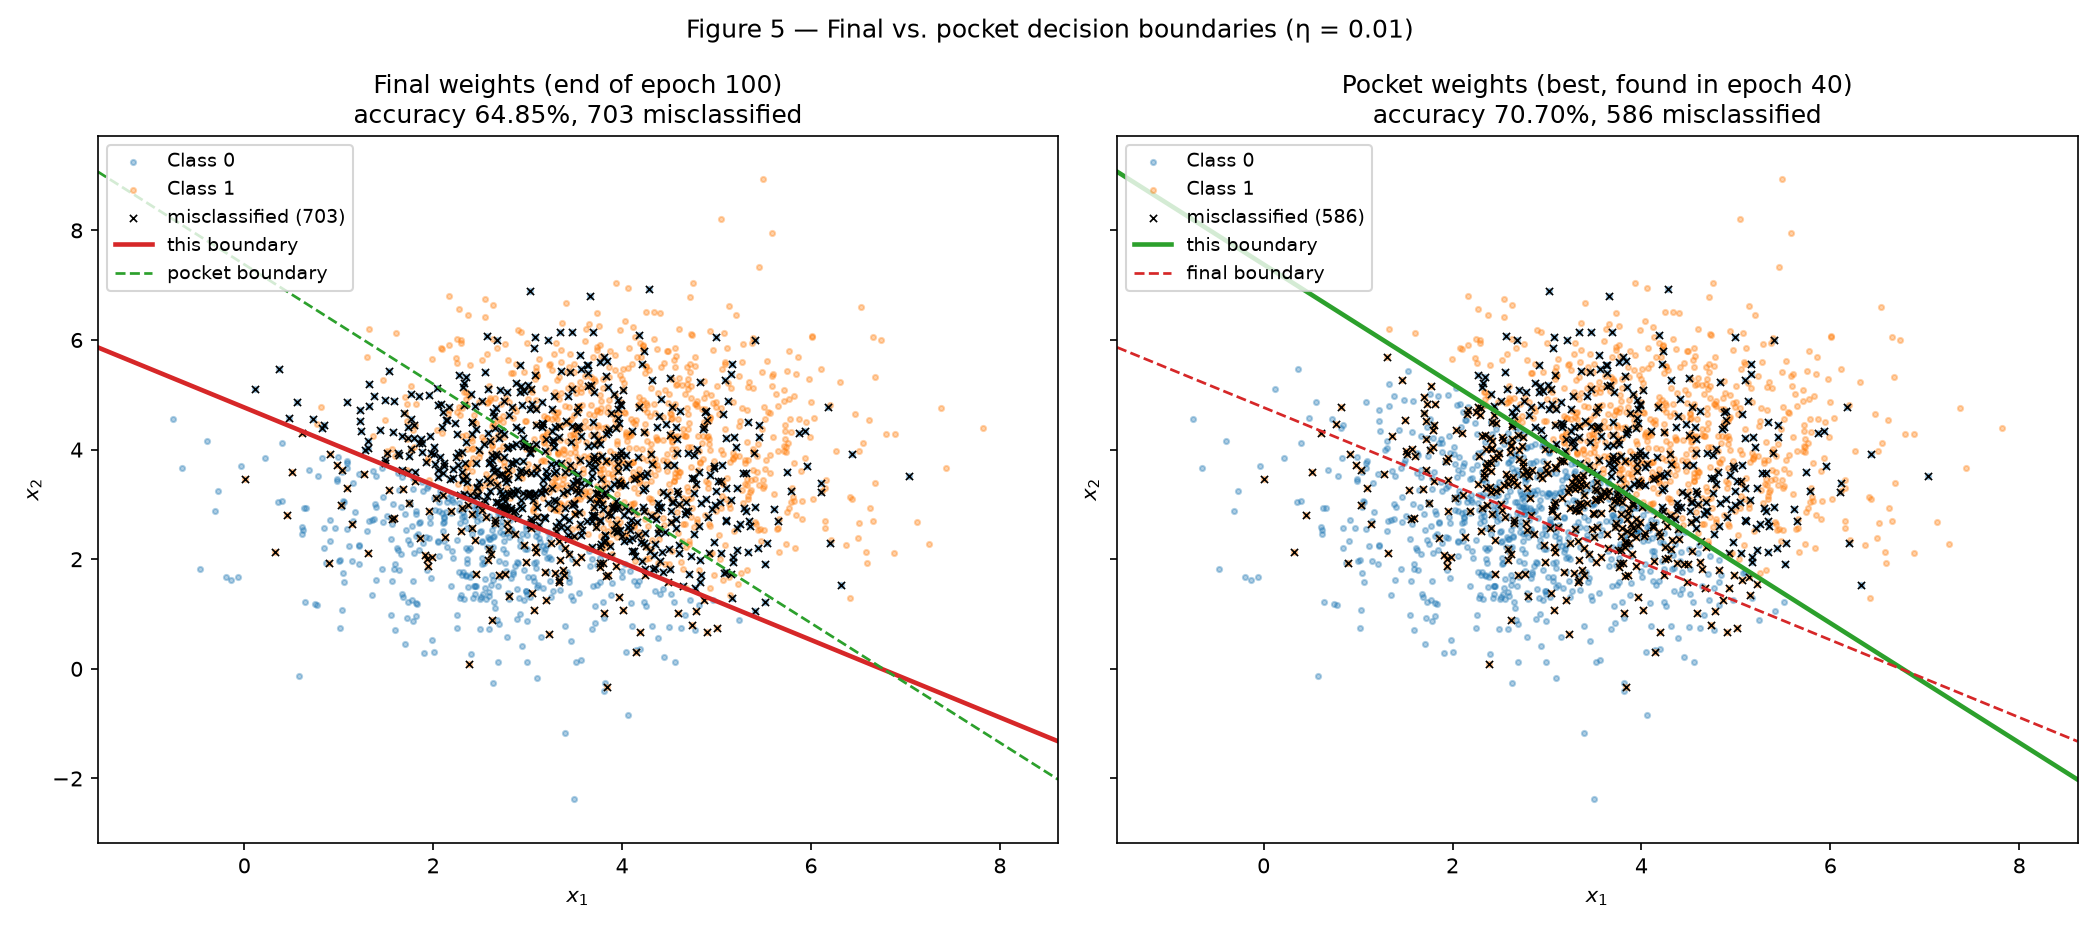
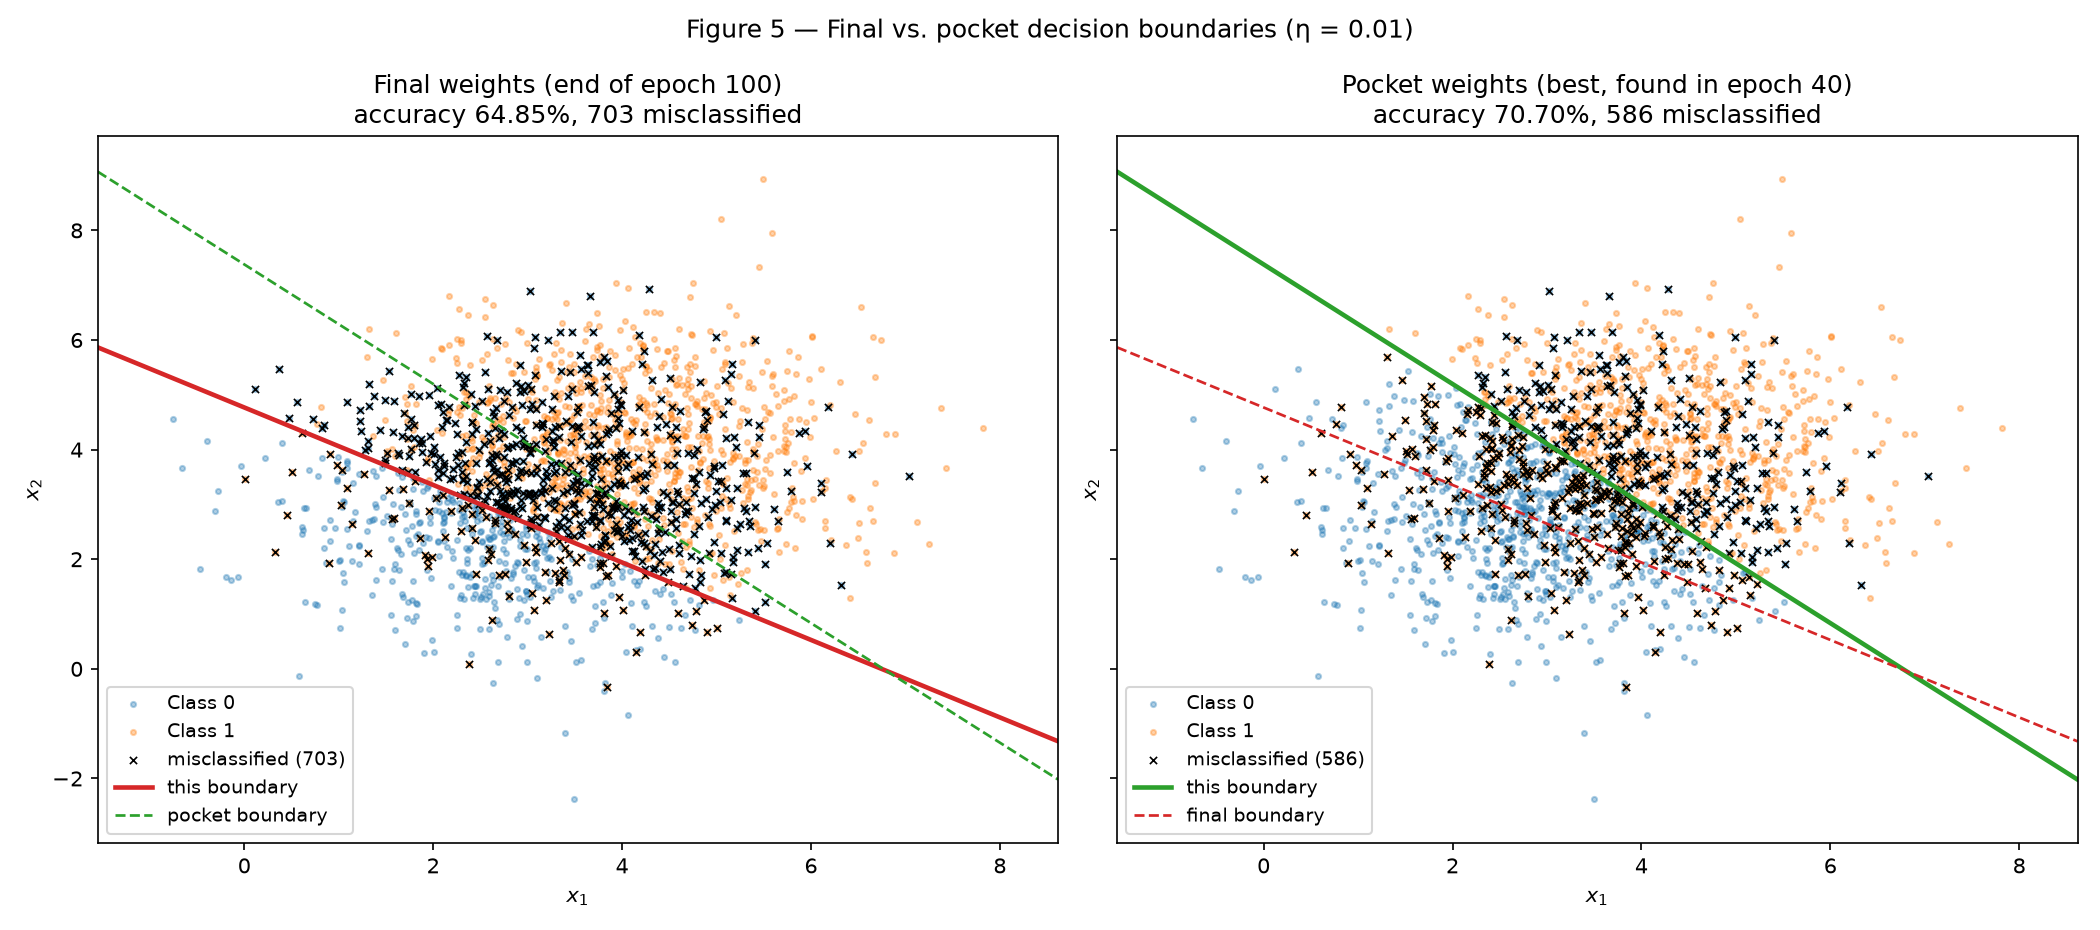
Perceptron: code lines within 120 columns, uniform section separators, legends that cover no data

diff --git a/docs/exercises/perceptron/code/exercise2.py b/docs/exercises/perceptron/code/exercise2.py
@@ -89,7 +89,7 @@ def describe(name, X, y, w, b):
 def run(rng):
     print("\n" + "=" * 72 + "\nEXERCISE 2 — overlapping data\n" + "=" * 72)
 
-    # --- A: generate the data ----------------------------------------------------------------
+    # --- A: generate the data --------------------------------------------------------------------
     X_gen, y_gen, order = two_gaussians(rng, MEAN0, MEAN1, COV)
     X, y = X_gen[order], y_gen[order]  # fixed presentation order, classes interleaved
     for k in (0, 1):
@@ -104,7 +104,7 @@ def run(rng):
     ax.legend(loc="upper left")
     save(fig, "fig4.png")
 
-    # --- B: train the unchanged perceptron, with the pocket copy switched on -------------------
+    # --- B: train the unchanged perceptron, with the pocket copy switched on ---------------------
     w0, b0 = pc.init_weights(rng)
     print(f"\nInitial weights: w0 = {np.round(w0, 6).tolist()}, b0 = {b0}")
     res = pc.train(X, y, w0, b0, eta=ETA, pocket=True)
@@ -116,12 +116,15 @@ def run(rng):
     describe("final weights ", X, y, final_w, final_b)
     describe(f"pocket weights (best found in epoch {pocket['epoch']})", X, y, pocket["w"], pocket["b"])
 
-    # --- C: figures ----------------------------------------------------------------------------
+    # --- C: figures ------------------------------------------------------------------------------
     # Figure 5: both boundaries over the data; each panel marks the points its own weights get wrong
     fig, axes = plt.subplots(1, 2, figsize=(14, 6.2), sharex=True, sharey=True)
-    panels = [(f"Final weights (end of epoch {res['epochs']})", final_w, final_b, "tab:red", pocket["w"], pocket["b"], "tab:green", "pocket"),
-              (f"Pocket weights (best, found in epoch {pocket['epoch']})", pocket["w"], pocket["b"], "tab:green",
-               final_w, final_b, "tab:red", "final")]
+    panels = [
+        (f"Final weights (end of epoch {res['epochs']})", final_w, final_b, "tab:red",
+         pocket["w"], pocket["b"], "tab:green", "pocket"),
+        (f"Pocket weights (best, found in epoch {pocket['epoch']})", pocket["w"], pocket["b"], "tab:green",
+         final_w, final_b, "tab:red", "final"),
+    ]
     for ax, (title, w, b, color, w_other, b_other, color_other, other) in zip(axes, panels):
         scatter_classes(ax, X, y, size=6, alpha=0.35)
         n_wrong = mark_misclassified(ax, X, y, w, b, size=12)
@@ -129,14 +132,14 @@ def run(rng):
         draw_boundary(ax, w_other, b_other, xlim, color=color_other, lw=1.3, ls="--", label=f"{other} boundary")
         ax.set(title=f"{title}\naccuracy {pc.accuracy(X, y, w, b):.2%}, {n_wrong} misclassified",
                xlabel="$x_1$", ylabel="$x_2$", xlim=xlim, ylim=ylim)
-        ax.legend(loc="upper left", fontsize=9)
+        ax.legend(loc="lower left", fontsize=9)  # the corner that covers no point and no boundary
     fig.suptitle(f"Figure 5 — Final vs. pocket decision boundaries (η = {ETA})")
     save(fig, "fig5.png")
 
     # Figure 6: accuracy of the current weights and best-so-far (pocket) accuracy, per epoch
     best_line = best_line_accuracy(X, y)
     epochs = np.arange(len(hist["accuracy"]))
-    fig, ax = plt.subplots(figsize=(9, 5))
+    fig, ax = plt.subplots(figsize=(12, 5))
     ax.plot(epochs, hist["accuracy"], color="tab:red", lw=1.2, label="current weights (end of each epoch)")
     ax.plot(epochs, hist["pocket_accuracy"], color="tab:green", lw=2, label="pocket (best so far)")
     ax.plot(pocket["epoch"], pocket["accuracy"], "o", color="tab:green",
@@ -147,7 +150,7 @@ def run(rng):
            xlabel="epoch", ylabel="accuracy", xlim=(0, epochs[-1]), ylim=(0.45, 0.78))
     ax.yaxis.set_major_formatter(PercentFormatter(1.0))
     ax.grid(alpha=0.3)
-    ax.legend(loc="lower right", fontsize=9)
+    ax.legend(loc="upper left", bbox_to_anchor=(1.02, 1), borderaxespad=0, fontsize=9)  # outside: covers no curve
     save(fig, "fig6.png")
 
     # --- D: analysis -----------------------------------------------------------------------------
@@ -157,7 +160,8 @@ def run(rng):
 
     # How far b and w move per mistake
     mean_norm = float(np.linalg.norm(X, axis=1).mean())
-    print(f"  mean ||x|| = {mean_norm:.3f}: per mistake b moves eta = {ETA}, w moves eta*||x|| = {ETA * mean_norm:.4f} on average")
+    print(f"  mean ||x|| = {mean_norm:.3f}: per mistake b moves eta = {ETA}, "
+          f"w moves eta*||x|| = {ETA * mean_norm:.4f} on average")
 
     # Rebuild (w, b) after every update from the update log: on a mistake the error is +1 for a
     # Class 1 sample and -1 for a Class 0 sample, so the weights are cumulative sums (the model is untouched)
@@ -169,8 +173,10 @@ def run(rng):
     norms = np.linalg.norm(W, axis=1)
     print(f"  updates on Class 1 samples (false negatives): {int(np.sum(err > 0))}, "
           f"on Class 0 samples (false positives): {int(np.sum(err < 0))}")
-    print(f"  after each update: ||w|| mean {norms.mean():.3f} (5-95%: {np.percentile(norms, 5):.3f}-{np.percentile(norms, 95):.3f}), "
-          f"i.e. about {norms.mean() / (ETA * mean_norm):.1f} single updates; b 5-95%: {np.percentile(B, 5):.3f} to {np.percentile(B, 95):.3f}")
+    print(f"  after each update: ||w|| mean {norms.mean():.3f} "
+          f"(5-95%: {np.percentile(norms, 5):.3f}-{np.percentile(norms, 95):.3f}), "
+          f"i.e. about {norms.mean() / (ETA * mean_norm):.1f} single updates; "
+          f"b 5-95%: {np.percentile(B, 5):.3f} to {np.percentile(B, 95):.3f}")
     nonzero_b = B[:-1] != 0  # b is exactly 0 whenever the two kinds of mistakes are tied: no relative change there
     print(f"  relative change per mistake (median): ||w|| {np.median(np.abs(np.diff(norms)) / norms[:-1]):.1%}, "
           f"|b| {np.median(np.abs(np.diff(B))[nonzero_b] / np.abs(B[:-1][nonzero_b])):.1%}")
@@ -188,7 +194,8 @@ def run(rng):
     norm_ep = np.array([np.linalg.norm(w) for w, _ in hist["weights"][1:]])
     print(f"  updates per epoch: min {upd.min()}, mean {upd.mean():.0f}, max {upd.max()}; "
           f"epochs without any update: {int(np.sum(upd == 0))}")
-    print(f"  end-of-epoch accuracy over epochs 1-{len(acc_ep)}: min {acc_ep.min():.2%}, mean {acc_ep.mean():.2%}, max {acc_ep.max():.2%}")
+    print(f"  end-of-epoch accuracy over epochs 1-{len(acc_ep)}: min {acc_ep.min():.2%}, "
+          f"mean {acc_ep.mean():.2%}, max {acc_ep.max():.2%}")
     print(f"  end-of-epoch ||w||: first 10 epochs mean {norm_ep[:10].mean():.3f}, last 10 epochs mean "
           f"{norm_ep[-10:].mean():.3f}, max {norm_ep.max():.3f}")
 

diff --git a/docs/exercises/perceptron/code/exercise1.py b/docs/exercises/perceptron/code/exercise1.py
@@ -40,7 +40,7 @@ def summary(name, X, y, r):
 def run(rng):
     print("=" * 72 + "\nEXERCISE 1 — separable data\n" + "=" * 72)
 
-    # --- A: generate the data ----------------------------------------------------------------
+    # --- A: generate the data --------------------------------------------------------------------
     X_gen, y_gen, order = two_gaussians(rng, MEAN0, MEAN1, COV)
     X, y = X_gen[order], y_gen[order]  # fixed presentation order, classes interleaved
     for k in (0, 1):
@@ -58,11 +58,11 @@ def run(rng):
     ax.legend(loc="upper left")
     save(fig, "fig1.png")
 
-    # --- B: initial weights, drawn once and shared by the eta = 0.01 and eta = 1.0 runs ---------
+    # --- B: initial weights, drawn once and shared by the eta = 0.01 and eta = 1.0 runs ----------
     w0, b0 = pc.init_weights(rng)
     print(f"\nInitial weights: w0 = {np.round(w0, 6).tolist()}, ||w0|| = {np.linalg.norm(w0):.4f}, b0 = {b0}")
 
-    # --- C: train with eta = 0.01 --------------------------------------------------------------
+    # --- C: train with eta = 0.01 ----------------------------------------------------------------
     res = pc.train(X, y, w0, b0, eta=ETA)
     acc = res["history"]["accuracy"]
     print(f"\nTraining with eta = {ETA}:")
@@ -70,14 +70,14 @@ def run(rng):
     print(f"  accuracy after each epoch (epoch 0 = initial weights): {[f'{a:.2%}' for a in acc]}")
 
     # Figure 2: decision boundary over the data, misclassified points marked
-    fig, ax = plt.subplots(figsize=(7, 6))
+    fig, ax = plt.subplots(figsize=(9, 6))
     scatter_classes(ax, X, y)
     draw_boundary(ax, res["w"], res["b"], xlim, color="black", lw=1.5, label="boundary $w \\cdot x + b = 0$")
     n_wrong = mark_misclassified(ax, X, y, res["w"], res["b"])
     ax.set(title=f"Figure 2 — Decision boundary after training (η = {ETA})\n"
                  f"accuracy {acc[-1]:.2%}, {n_wrong} misclassified points",
            xlabel="$x_1$", ylabel="$x_2$", xlim=xlim, ylim=ylim)
-    ax.legend(loc="upper left")
+    ax.legend(loc="upper left", bbox_to_anchor=(1.02, 1), borderaxespad=0)  # outside: covers no data
     save(fig, "fig2.png")
 
     # Figure 3: accuracy x epoch, each point annotated with the updates made during that epoch

diff --git a/docs/exercises/perceptron/code/main.py b/docs/exercises/perceptron/code/main.py
@@ -30,7 +30,8 @@ rows = [
     ("Exercise 1 — final w and b", fmt(ex1["w"], ex1["b"])),
     ("Exercise 1 — epochs to convergence", f"{ex1['epochs']}"),
     ("Exercise 1 — final accuracy", f"{ex1['accuracy']:.2%}"),
-    ("Exercise 1 — epochs and final accuracy with eta = 1.0", f"{ex1['epochs_large']} epochs, {ex1['accuracy_large']:.2%}"),
+    ("Exercise 1 — epochs and final accuracy with eta = 1.0",
+     f"{ex1['epochs_large']} epochs, {ex1['accuracy_large']:.2%}"),
     ("Exercise 2 — final w and b", fmt(ex2["final_w"], ex2["final_b"])),
     ("Exercise 2 — accuracy of the final weights", f"{ex2['final_accuracy']:.2%}"),
     ("Exercise 2 — accuracy of the pocket weights", f"{ex2['pocket_accuracy']:.2%}"),
